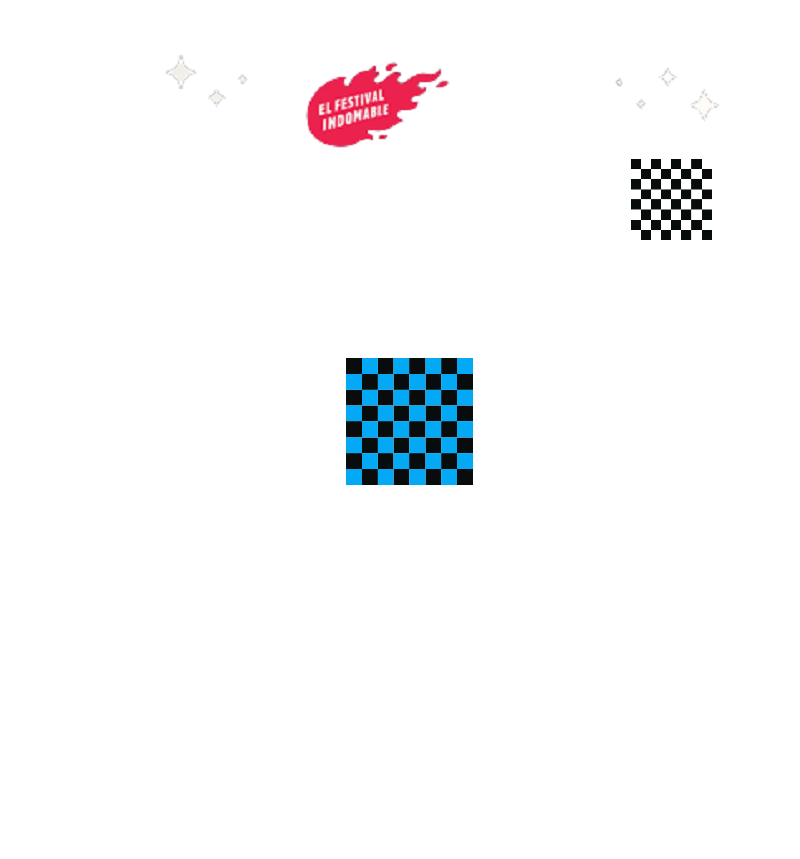
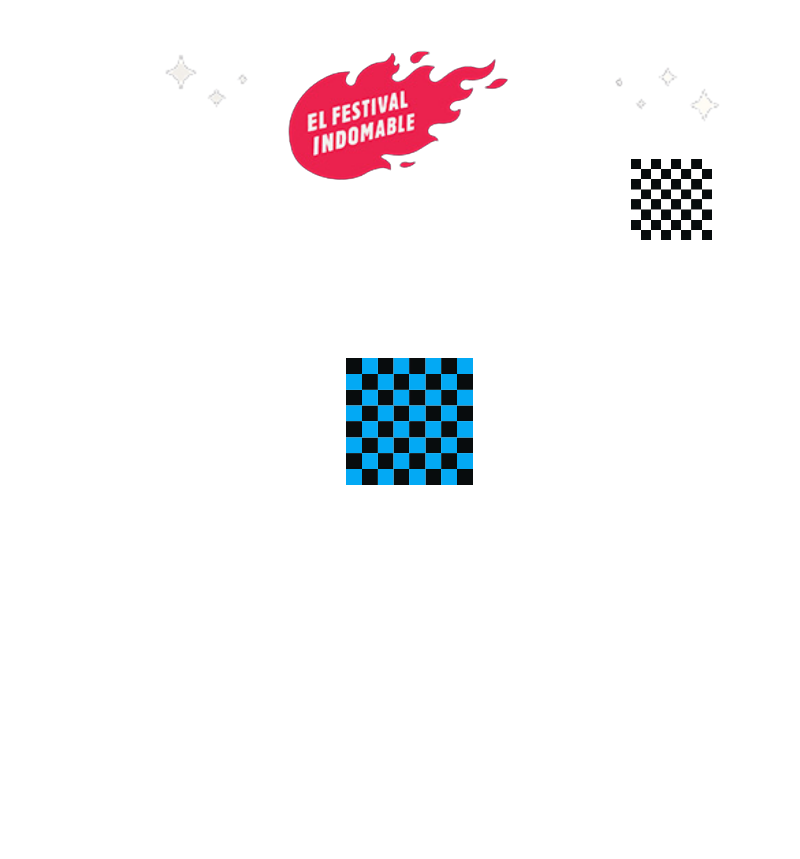
Add #session bar

Changed region(s): [[0.3438, 0.0605, 0.625, 0.2119]]

diff --git a/index.css b/index.css
@@ -72,8 +72,13 @@ section {
 
 header {
   display: flex;
+  flex-direction: column;
   background: url('images/deco/background-removebg-preview.png') no-repeat;
   background-size: 100%;
+}
+
+#session {
+  display: none;
 }
 
 /* Menu Button */
@@ -166,4 +171,40 @@ nav ul {
 .nav-link {
   text-decoration: none;
   color: var(--main);
+}
+
+@media screen and (min-width: 768px) {
+
+  /********** Header ********/
+
+  #session {
+    position: absolute;
+    top: 0;
+    display: flex;
+    flex-direction: row;
+    width: 100%;
+    justify-content: flex-end;
+    background-color: var(--black);
+    color: var(--lghtGray);
+    font-size: 1.2vw;
+    padding: 0.6vw 12vw 0.6vw 0;
+  }
+
+  .sess-icon {
+    margin-inline: 1.2vw;
+  }
+
+  .burguer {
+    display: none;
+  }
+
+  #headline > h1 {
+    font-size: 9vw;
+    font-weight: 900;
+    /* height: 150vw; */
+    /* padding: 30vw 0 0 3vw; */
+    background-color: #f5f5f5b2;
+    color: var(--seeThru);
+    text-align: left;
+  }
 }

diff --git a/index.html b/index.html
@@ -13,6 +13,13 @@
   </head>
   <body>
     <header>
+      <section id="session">
+        <i class="face sess-icon">f</i>
+        <i class="twit sess-icon">t</i>
+        <p class="sess-icon">English</p>
+        <p class="sess-icon">MyPage</p>
+        <p class="sess-icon">Logout</p>
+      </section>
       <label class="menu-btn">
         <input type="checkbox">
         <span class="burguer"></span>
